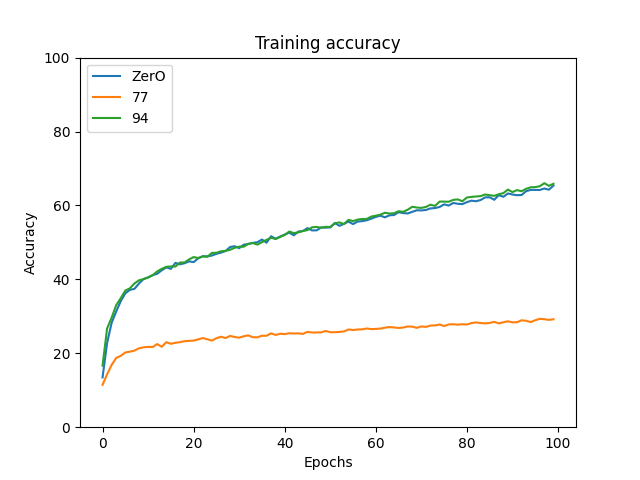
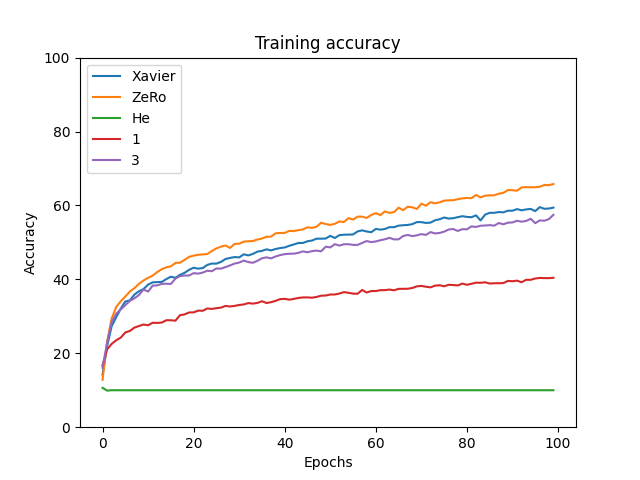
Looked at ZerO vs other methods

diff --git a/playground/lottery-tickets/weight-initalization/train.py b/playground/lottery-tickets/weight-initalization/train.py
@@ -6,14 +6,11 @@ from eval import eval_model
 from optimization_utils.plotters.SimplePlot import SimplePlot
 from optimization_utils.plotters.LinePlot import LinePlot
 from optimization_utils.utils.ProcessPool import ProcessPool
-from zero_initialization import set_model_weights
+from weight_initialization import set_model_weights, ZerO_Init_on_matrix, xavier_initialization, he_initalization
 
 EPOCHS = 100
 BATCH_SIZE = 256
-NETWORKS_TO_TRAIN = 100
-
-from torch.multiprocessing import Process, Lock, Queue
-import torch.multiprocessing as mp
+RANDOM_NETWORKS_TO_TRAIN = 5
 
 """
 Training logic
@@ -74,34 +71,45 @@ def evaluate(lock, model):
     }
 
 if __name__ == "__main__":
-    pool = ProcessPool(max_workers=5)
+#    pool = ProcessPool(max_workers=5)
 
     models = []
-    for i in range(NETWORKS_TO_TRAIN):
+    for i in range(RANDOM_NETWORKS_TO_TRAIN):
         models.append(PlainModel(i).to(device))
     
     zero_name = "ZerO"
 
-    models.append(PlainModel(zero_name).to(device))
-    set_model_weights(models[-1])
+#    models.append(PlainModel(zero_name).to(device))
+#    set_model_weights(models[-1], ZerO_Init_on_matrix)
 
-    zero_results = []
-    for item in pool.execute(evaluate, models):
+    special_models = [
+        ("Xavier", xavier_initialization),
+        ("ZeRo", ZerO_Init_on_matrix),
+        ("He", he_initalization)
+    ]
+    training_special = []
+    testing_special = []
+    processed_special_models = []
+    for (name, init) in special_models:
+        model = PlainModel(name).to(device)
+        set_model_weights(model, init)
+        models.append(model)
+
+    for item in ProcessPool(max_workers=5).execute(evaluate, models):
         training_accuracy, test_accuracy, name = item["training_accuracy"], item["test_accuracy"], item["label"]        
-        if zero_name == name:
-            training_acc = (LinePlot(y=training_accuracy, title="Training accuracy", legend=name, x_text="Epochs", y_text="Accuracy", y_min=0, y_max=100))
-            testing_acc = (LinePlot(y=test_accuracy, title="Test accuracy", legend=name, x_text="Epochs", y_text="Accuracy", y_min=0, y_max=100))
-            zero_results = [training_acc, testing_acc]
+        if not str(name).isnumeric():
+            training_special.append(LinePlot(y=training_accuracy, title="Training accuracy", legend=name, x_text="Epochs", y_text="Accuracy", y_min=0, y_max=100))
+            testing_special.append(LinePlot(y=test_accuracy, title="Test accuracy", legend=name, x_text="Epochs", y_text="Accuracy", y_min=0, y_max=100))
         else:
             training_plots.append(LinePlot(y=training_accuracy, title="Training accuracy", legend=name, x_text="Epochs", y_text="Accuracy", y_min=0, y_max=100))
             test_plots.append(LinePlot(y=test_accuracy, title="Test accuracy", legend=name, x_text="Epochs", y_text="Accuracy", y_min=0, y_max=100))
-    
+
     sorted_by_training_accuracy, sorted_by_testing_accuracy = list(zip(*sorted(
         zip(training_plots, test_plots),
         key=lambda x: sum(x[0].y)/len(x[0].y),
     )))
-    training_plots = [zero_results[0], sorted_by_training_accuracy[0], sorted_by_training_accuracy[-1]]
-    test_plots = [zero_results[1], sorted_by_testing_accuracy[0], sorted_by_testing_accuracy[-1]]
+    training_plots = training_special + [sorted_by_training_accuracy[0], sorted_by_training_accuracy[-1]]
+    test_plots = testing_special + [sorted_by_testing_accuracy[0], sorted_by_testing_accuracy[-1]]
 
     plot = SimplePlot()
     plot.plot(training_plots)

diff --git a/playground/lottery-tickets/weight-initalization/weight_initialization.py b/playground/lottery-tickets/weight-initalization/weight_initialization.py
@@ -4,17 +4,37 @@ import torch
 import math
 from scipy.linalg import hadamard
 import torch.nn as nn
+import torch
 
-def set_model_weights(model):
+def set_model_weights(model, method):
 #    for name, param in model.named_parameters():
     for name, module in model.named_modules():
         print(name)
         if isinstance(module, nn.Linear):
-            module.weight.data = ZerO_Init_on_matrix(module.weight.data)
+            module.weight.data = method(module.weight.data)
             nn.init.constant_(module.bias, 0)
         elif  isinstance(module, nn.Conv2d):
             n = module.weight.data.shape[-1] // 2
-            module.weight.data[:, :, n, n] = ZerO_Init_on_matrix(module.weight.data[:, :, n, n])
+            if method == ZerO_Init_on_matrix:
+                module.weight.data[:, :, n, n] = method(module.weight.data[:, :, n, n])
+            else:
+                module.weight.data = method(module.weight.data, is_conv=True)
+
+def xavier_initialization(matrix_tensor, is_conv=False):
+    if is_conv:
+        _, in_c, k, k = matrix_tensor.shape
+        return torch.randn_like(matrix_tensor) * math.sqrt(2 / (k * k * in_c))
+    else:
+        input, output = matrix_tensor.shape
+        return torch.randn_like(matrix_tensor) * math.sqrt(2 / (input + output))
+
+def he_initalization(matrix_tensor, is_conv=False):
+    if is_conv:
+        _, in_c, _, _ = matrix_tensor.shape
+        return torch.randn_like(matrix_tensor) * math.sqrt(2 / (in_c))
+    else:
+        input, output = matrix_tensor.shape
+        return torch.randn_like(matrix_tensor) * math.sqrt(2 / (input))
 
 # Based from the author https://github.com/jiaweizzhao/ZerO-initialization/blob/main/example_mnist.ipynb
 def ZerO_Init_on_matrix(matrix_tensor):

diff --git a/readme.md b/readme.md
@@ -1,17 +1,19 @@
 # optimization playground
 
 
-| **Paper / Project**                                                                   | **Goal**                                                                   | **Location**                                                                                   | **Status** |
-| ------------------------------------------------------------------------------------- | -------------------------------------------------------------------------- | ---------------------------------------------------------------------------------------------- | ---------- |
-| **RL**                                                                                |                                                                            |                                                                                                |            |
-| [Rl-book](http://incompleteideas.net/book/the-book.html)                              | Reproduce plots, and implement methods                                     | [rl/rl-book](./rl/rl-book/)                                                                    | WIP        |
-| **NLP**                                                                               |                                                                            |                                                                                                |            |
-| GPT                                                                                   | Look at components for the GPT model, and train it on tweets for embedding | [nlp/gpt](./nlp/gpt)                                                                           | Deadline   |
-| **/CV**                                                                               |                                                                            |                                                                                                |            |
-| [CLIP](https://openai.com/blog/clip/)                                                 | Look at components for the CLIP model, and create a mvp model              | [computer-vision/clip](./computer-vision/clip/)                                                | Done       |
-| [Diffusion Models Beat GANs on Image Synthesis](https://arxiv.org/pdf/2105.05233.pdf) | Be able to generate MNIST digit                                            | [gan/denoising-diffusion-probabilistic-models](./gan/denoising-diffusion-probabilistic-models) | Done       |
-| **Self Supervised**                                                                   |                                                                            |                                                                                                |            |
-| Bootstrap your own latent                                                             | Use BYOL to beat random weights for pre-training on cifar                  | [self-supervised-learning/byol](./self-supervised-learning/byol)                               | WIP        |
+| **Paper / Project**                                                                   | **Goal**                                                                   | **Location**                                                                                         | **Status** |
+| ------------------------------------------------------------------------------------- | -------------------------------------------------------------------------- | ---------------------------------------------------------------------------------------------------- | ---------- |
+| **RL**                                                                                |                                                                            |                                                                                                      |            |
+| [Rl-book](http://incompleteideas.net/book/the-book.html)                              | Reproduce plots, and implement methods                                     | [rl/rl-book](./rl/rl-book/)                                                                          | WIP        |
+| **NLP**                                                                               |                                                                            |                                                                                                      |            |
+| GPT                                                                                   | Look at components for the GPT model, and train it on tweets for embedding | [nlp/gpt](./nlp/gpt)                                                                                 | Deadline   |
+| **CV**                                                                                |                                                                            |                                                                                                      |            |
+| [CLIP](https://openai.com/blog/clip/)                                                 | Look at components for the CLIP model, and create a mvp model              | [computer-vision/clip](./computer-vision/clip/)                                                      | Done       |
+| [Diffusion Models Beat GANs on Image Synthesis](https://arxiv.org/pdf/2105.05233.pdf) | Be able to generate MNIST digit                                            | [gan/denoising-diffusion-probabilistic-models](./gan/denoising-diffusion-probabilistic-models)       | Done       |
+| **Self Supervised**                                                                   |                                                                            |                                                                                                      |            |
+| [Bootstrap your own latent](https://arxiv.org/abs/2006.07733)                         | Use BYOL to beat random weights for pre-training on cifar                  | [self-supervised-learning/byol](./self-supervised-learning/byol)                                     | WIP        |
+| **Aritecture**                                                                        |                                                                            |                                                                                                      |            |
+| [ZerO](https://arxiv.org/abs/2110.12661)                                              | look at various network initializations vs random                          | [playground/lottery-tickets/weight-initalization](./playground/lottery-tickets/weight-initalization) | WIP        |
 
 
 ### Reflection from 2022

diff --git a/playground/lottery-tickets/weight-initalization/readme.md b/playground/lottery-tickets/weight-initalization/readme.md
@@ -2,11 +2,6 @@ Small experiment to see effect of initialization on network convergence.
 
 Looks like [ZerO](https://arxiv.org/abs/2110.12661) does quite well :)
 
-Might update in the future with some more 
-- (todo) Xavier Weight Initialization
-- (todo) He Weight Initialization
-- etc etc
-
 ![test_accuracy.png](./test_accuracy.png)
 
 ![training_accuracy.png](./training_accuracy.png)
